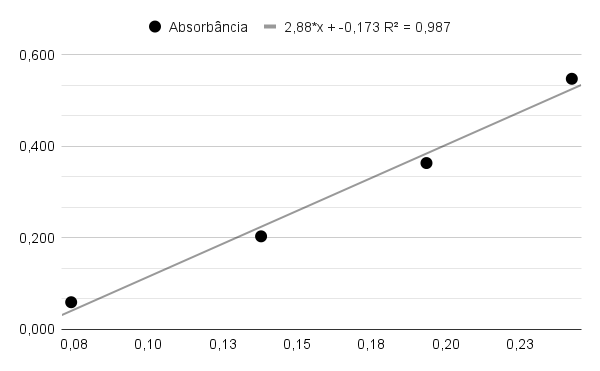
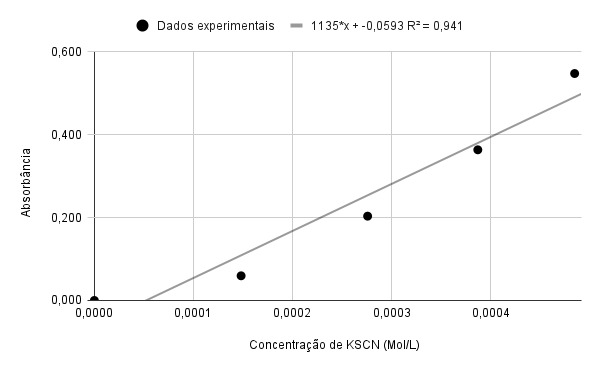
relatório de química finalizado

diff --git a/QUI-R2/main.tex b/QUI-R2/main.tex
@@ -16,25 +16,24 @@ De maneira simplificada, a reação cujo equilíbrio estamos interessados em aco
     \ce{Fe^{3+}_{aq} + SCN^-_{aq} <-->[{K_1}][{K_2}] {[Fe(SCN)]}^{2+}_{aq}}
 \end{align*}
 
-Em que \(K_1 = \cfrac{[{[Fe(SCN)]}^{2+}]}{[Fe^{3+}][SCN^-]} \) e \(K_2 = \cfrac{1}{k_1}\).
+Em que \(K_1 = \cfrac{[{[Fe(SCN)]}^{2+}]}{[Fe^{3+}][SCN^-]} \) e \(K_2 = \cfrac{1}{K_1}\).
 
 No entanto, estamos adicionando \ce{Fe(NO3)3} como fonte de íons ferro e \ce{KSCN} como fonte de íons tiocianato. Neste caso, o real equilíbrio é dado por:
 
 \begin{align*}
-    \ce{Fe(NO3)3 + KSCN <-->[{K_3}][{K_4}] Fe^{3+}_{aq} + 3NO3^-_{aq} + SCN^-_{aq} + K^+_{aq} <-->[{k_1}][{k_2}] {[Fe(SCN)]}^{2+}_{aq} + 3NO3^-_{aq} + k^+_{aq}}
+    \ce{Fe(NO3)3 + KSCN ->[{K_3}] Fe^{3+}_{aq} + 3NO3^-_{aq} + SCN^-_{aq} + K^+_{aq} <-->[{K_1}][{K_2}] {[Fe(SCN)]}^{2+}_{aq} + 3NO3^-_{aq} + K^+_{aq}}
 \end{align*}
 
 Simultaneamente, pode ocorrer reação entre os íons férricos e a água:
 
 \begin{align*}
-    \ce{Fe^{3+}_{aq} + 2H2O_l <-->[{K_5}][{K_6}] {(Fe(OH))}^{2+}_{aq} + H3O^+_{aq}}
+    \ce{Fe^{3+}_{aq} + 2H2O_l <-->[{K_4}][{K_5}] {(Fe(OH))}^{2+}_{aq} + H3O^+_{aq}}
 \end{align*}
 
-Ainda assim, como \(K_3\) é muito maior que \(K_4\) pode-se tomar como negligenciável a etapa de ionização. Quanto à reação com íons férricos e água, para isto é adicionado ácido nítrico à solução, o ácido nítrico é forte e é completamente ionizado na água, resultando na formação excessiva de \ce{H3O+}  que resulta na não reação de água com \(\ce{Fe^{3+}}\) mantendo sua disponibilidade para a reação de interesse.   
+Ainda assim, como os sais são extremamente solúveis, pode-se considerar que toda quantidade colocado torna-se íon. Quanto à reação com íons férricos e água, para isto a solução de ácido nítrico \qty{0,1}{M} é adicionada em lugar de água pura. Isto porque o ácido nítrico é um ácido forte, formando íons \ce{H3O^+} com a água, isto faz com que o equilíbrio da reação de ferro com água tenda para formação de íons ferro livres.
 
-\section{Outras propriedades para determinar as constantes de equilíbrio}
 
-\section{Determine a curva de calibração do \ce{{[Fe(SCN)]}^{2+}}}
+\section{Determinando a curva de calibração do \ce{{[Fe(SCN)]}^{2+}}}
 Para determinação da curva de calibração foram feitas soluções ricas em \ce{FeNO3} em comparação ao \ce{KSCN}. O objetivo disto é que desta forma há excesso de íons férricos de tal forma que toda concentração disponível de \ce{KSCN} reage para formar \ce{Fe(SCN)}. Ou seja, a concentração final de \ce{Fe(SCN)} é igual à concentração inicial de \ce{KSCN}. Tirando a média dos dados dos diferentes grupos da sala obtivemos a curva de calibração descrita na \cref{curvaPadrao}
 
 \begin{figure}[H]
@@ -43,10 +42,33 @@ Para determinação da curva de calibração foram feitas soluções ricas em \c
     \caption{Curva de calibração do \ce{Fe(SCN)} obtida pela média dos valores experimentais dos grupos da sala. A equação de reta que descreve a curva está apresentada na parte superior da figura.}\label{curvaPadrao}
 \end{figure}
 
-\section{Determine a constante de formação do \ce{{[Fe(SCN)]}^{2+}}. Compare com um valor encontrado na literatura e calcule o erro absoluto e o erro relativo}
+\section{Determinando a constante de formação do \ce{{[Fe(SCN)]}^{2+}}}
 
-\section{Que fatores experimentais desviaram as constantes obtidas? Por quê?}
+Para determinar a constante de formação do \ce{{[Fe(SCN)]}^{2+}} foi necessário extrair dos dados de absorbância obtidos qual era a concentração de \ce{{[Fe(SCN)]}^{2+}}. Para tanto, utilizamos a equação de reta obtida por regressão linear considerando o intercepto como zero: \(A = 976 c\), onde \(A\) é a absorbância e \(c\) é a concentração de \ce{{[Fe(SCN)]}^{2+}}. Os valores de concentração e da constante de formação \(K_1\) obtidos para cada concentração inicial de \ce{KSCN} estão resumidos na \cref{concFeSCN}.
 
+\begin{table}[h]
+    \centering
+    \begin{tabular}{c c c}
+        \hline
+        \ce{[KSCN]}/(M x 1000) & \ce{[{[Fe(SCN)]}^{2+}]}/(M x 1000) & K_1/ (\(\frac{1}{M}\) x 1000) \\
+        \hline
+        0,2 & 0,157 & 4,3\\
+        0,4 & 0,320 & 5,9\\
+        0,6 & 0,477 & 7,4\\
+        0,8 & 0,642 & 11,4\\
+        --- & Média: & 7,3\\
+        \hline
+    \end{tabular}
+    \caption{Valores de concentração de \ce{[{[Fe(SCN)]}^{2+}]} e de constante de formação obtidos pela absorbância para cada valor inicial de \ce{[KSCN]}}\label{concFeSCN}
+\end{table}
+
+Os valores obtidos na literatura são de \qty{179}{\liter\per\mol}. Isto difere do valor calculado por \qty{178,99}{\liter\per\mol}, ou seja, uma diferença de \(99,99\%\). Algum desvio seria esperado devido à erros de execução, embora compensados pelas replicatas entre diferentes grupos. Também seria possível que houvesse erro devido à variações de temperatura, visto que a temperatura também afeta o equilíbrio. Porém, em vista da temperatura ter se mantido relativamente constante e próxima de \qty{25}{\celsius} isto também não justifica a diferença observada. O erro encontrado tem de ser devido a algum erro de cálculo, possivelmente na regressão linear.
+
+Por fim, a planilha contendo os dados experimentais na qual todos os cálculos foram realizados está disponível em: \url{https://docs.google.com/spreadsheets/d/1iT7FGQYQMga-1brs86yn8JmtRnLxEMh3r2wGimDK1WU/edit?usp=sharing}.
+%TODO: que fatores experimentais desviaram as constantes obtidas? por quê?
+
+\section{Propriedades alternativas para determinar as constantes de equilíbrio}
+Ao invés de utilizar a absorbância, seria possível utilizar qualquer característica físico-química do sistema que variasse conforme a extensão de nossa reação. seria possível utilizar condutividade, visto que existe uma variação nas cargas presentes em solução conforme a reação avança; calorimetria também seria uma possibilidade visto que a formação de mais ou menos \ce{Fe(SCN)} resultará na absorção ou liberação de mais ou menos calor; ou ainda propriedades coligativas, mensurando ponto de ebulição ou de congelamento.
     \bibliographystyle{plain}
     \bibliography{bibliography}
 
